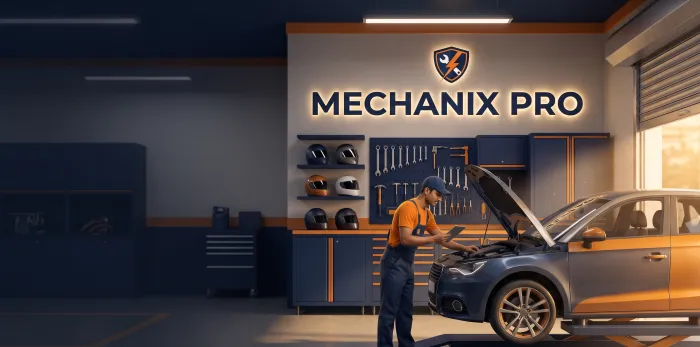
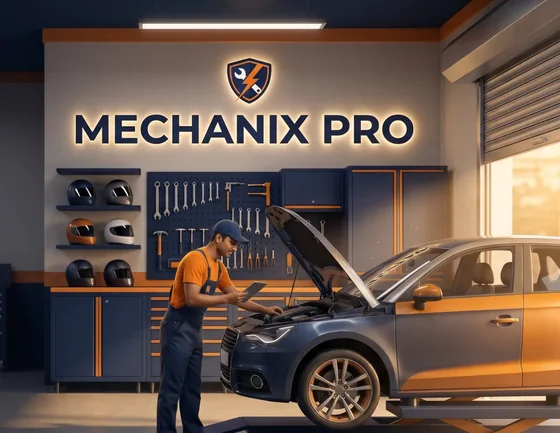
Hero car slide cropped to the photo like the bike slides

diff --git a/index.html b/index.html
@@ -54,7 +54,7 @@
     </div>
     <figure class="hero-media">
       <div class="hs bike-only" role="region" aria-roledescription="carousel" aria-label="Mechanix Pro bike service pictures"><div class="hs-track"><div class="hs-slide is-on" role="group" aria-roledescription="slide" aria-label="1 of 5"><img src="/assets/img/hero/hero-quote-1200.webp" fetchpriority="high" srcset="/assets/img/hero/hero-quote-700.webp 560w, /assets/img/hero/hero-quote-1200.webp 800w, /assets/img/hero/hero-quote-2000.webp 1000w" sizes="(min-width:960px) 72vw, 100vw" width="800" height="792" alt="A customer points at an itemised quote on a Mechanix Pro mechanic's tablet and smiles; nothing starts until she says yes." decoding="async"></div><div class="hs-slide" role="group" aria-roledescription="slide" aria-label="2 of 5"><img data-src="/assets/img/hero/hero-team-1200.webp" data-srcset="/assets/img/hero/hero-team-700.webp 560w, /assets/img/hero/hero-team-1200.webp 800w, /assets/img/hero/hero-team-2000.webp 1000w" sizes="(min-width:960px) 72vw, 100vw" width="800" height="792" alt="The Mechanix Pro team in navy polo shirts with the shield badge, a woman and three men, one holding a tablet, in front of a Mechanix Pro garage and a service van." decoding="async"></div><div class="hs-slide" role="group" aria-roledescription="slide" aria-label="3 of 5"><img data-src="/assets/img/hero/hero-road-1200.webp" data-srcset="/assets/img/hero/hero-road-700.webp 560w, /assets/img/hero/hero-road-1200.webp 800w, /assets/img/hero/hero-road-2000.webp 1000w" sizes="(min-width:960px) 72vw, 100vw" width="800" height="792" alt="A Mechanix Pro mechanic kneels beside a scooter on a Bengaluru street at night with a torch, his navy-and-orange service van behind him." decoding="async"></div><div class="hs-slide" role="group" aria-roledescription="slide" aria-label="4 of 5"><img data-src="/assets/img/hero/hero-delivery-1200.webp" data-srcset="/assets/img/hero/hero-delivery-700.webp 560w, /assets/img/hero/hero-delivery-1200.webp 800w, /assets/img/hero/hero-delivery-2000.webp 1000w" sizes="(min-width:960px) 72vw, 100vw" width="800" height="792" alt="A Mechanix Pro mechanic takes a photo of the finished motorcycle while the customer gives a thumbs up." decoding="async"></div><div class="hs-slide" role="group" aria-roledescription="slide" aria-label="5 of 5"><video class="hm-v" autoplay muted loop playsinline preload="metadata" poster="/assets/img/hero/hero-garage-poster.webp" width="1280" height="572" aria-label="The Mechanix Pro garage: a smiling mechanic with a spanner beside a motorcycle on a service stand."><source src="/assets/video/hero-garage.mp4" type="video/mp4"></video></div></div></div>
-      <div class="hs car-only" role="region" aria-roledescription="carousel" aria-label="Mechanix Pro car service pictures"><div class="hs-track"><div class="hs-slide is-on" role="group" aria-roledescription="slide" aria-label="1 of 2"><img data-src="/assets/img/hero/hero-car-1200.webp" data-srcset="/assets/img/hero/hero-car-700.webp 700w, /assets/img/hero/hero-car-1200.webp 1200w, /assets/img/hero/hero-car-2000.webp 2000w" sizes="(min-width:960px) 72vw, 100vw" width="2752" height="1361" alt="The Mechanix Pro garage: a mechanic checks a car with its bonnet open on a service ramp." decoding="async"></div><div class="hs-slide" role="group" aria-roledescription="slide" aria-label="2 of 2"><img data-src="/assets/img/hero/car-closeup-1200.webp" data-srcset="/assets/img/hero/car-closeup-700.webp 700w, /assets/img/hero/car-closeup-1200.webp 1200w" sizes="(min-width:960px) 72vw, 100vw" width="1200" height="594" alt="A mechanic holds a tablet beside a car on a ramp with its bonnet open in a workshop." decoding="async"></div></div></div>
+      <div class="hs car-only" role="region" aria-roledescription="carousel" aria-label="Mechanix Pro car service pictures"><div class="hs-track"><div class="hs-slide is-on" role="group" aria-roledescription="slide" aria-label="1 of 2"><img data-src="/assets/img/hero/hero-car-1200.webp" data-srcset="/assets/img/hero/hero-car-700.webp 560w, /assets/img/hero/hero-car-1200.webp 800w, /assets/img/hero/hero-car-2000.webp 1280w" sizes="(min-width:960px) 72vw, 100vw" width="800" height="619" alt="The Mechanix Pro garage: a mechanic checks a car with its bonnet open on a service ramp." decoding="async"></div><div class="hs-slide" role="group" aria-roledescription="slide" aria-label="2 of 2"><img data-src="/assets/img/hero/car-closeup-1200.webp" data-srcset="/assets/img/hero/car-closeup-700.webp 700w, /assets/img/hero/car-closeup-1200.webp 1200w" sizes="(min-width:960px) 72vw, 100vw" width="1200" height="594" alt="A mechanic holds a tablet beside a car on a ramp with its bonnet open in a workshop." decoding="async"></div></div></div>
     </figure>
   </div>
   <div class="wrap hero-book">

diff --git a/src/home.html b/src/home.html
@@ -13,7 +13,7 @@
     </div>
     <figure class="hero-media">
       <div class="hs bike-only" role="region" aria-roledescription="carousel" aria-label="Mechanix Pro bike service pictures"><div class="hs-track"><div class="hs-slide is-on" role="group" aria-roledescription="slide" aria-label="1 of 5"><img src="/assets/img/hero/hero-quote-1200.webp" fetchpriority="high" srcset="/assets/img/hero/hero-quote-700.webp 560w, /assets/img/hero/hero-quote-1200.webp 800w, /assets/img/hero/hero-quote-2000.webp 1000w" sizes="(min-width:960px) 72vw, 100vw" width="800" height="792" alt="A customer points at an itemised quote on a Mechanix Pro mechanic's tablet and smiles; nothing starts until she says yes." decoding="async"></div><div class="hs-slide" role="group" aria-roledescription="slide" aria-label="2 of 5"><img data-src="/assets/img/hero/hero-team-1200.webp" data-srcset="/assets/img/hero/hero-team-700.webp 560w, /assets/img/hero/hero-team-1200.webp 800w, /assets/img/hero/hero-team-2000.webp 1000w" sizes="(min-width:960px) 72vw, 100vw" width="800" height="792" alt="The Mechanix Pro team in navy polo shirts with the shield badge, a woman and three men, one holding a tablet, in front of a Mechanix Pro garage and a service van." decoding="async"></div><div class="hs-slide" role="group" aria-roledescription="slide" aria-label="3 of 5"><img data-src="/assets/img/hero/hero-road-1200.webp" data-srcset="/assets/img/hero/hero-road-700.webp 560w, /assets/img/hero/hero-road-1200.webp 800w, /assets/img/hero/hero-road-2000.webp 1000w" sizes="(min-width:960px) 72vw, 100vw" width="800" height="792" alt="A Mechanix Pro mechanic kneels beside a scooter on a Bengaluru street at night with a torch, his navy-and-orange service van behind him." decoding="async"></div><div class="hs-slide" role="group" aria-roledescription="slide" aria-label="4 of 5"><img data-src="/assets/img/hero/hero-delivery-1200.webp" data-srcset="/assets/img/hero/hero-delivery-700.webp 560w, /assets/img/hero/hero-delivery-1200.webp 800w, /assets/img/hero/hero-delivery-2000.webp 1000w" sizes="(min-width:960px) 72vw, 100vw" width="800" height="792" alt="A Mechanix Pro mechanic takes a photo of the finished motorcycle while the customer gives a thumbs up." decoding="async"></div><div class="hs-slide" role="group" aria-roledescription="slide" aria-label="5 of 5"><video class="hm-v" autoplay muted loop playsinline preload="metadata" poster="/assets/img/hero/hero-garage-poster.webp" width="1280" height="572" aria-label="The Mechanix Pro garage: a smiling mechanic with a spanner beside a motorcycle on a service stand."><source src="/assets/video/hero-garage.mp4" type="video/mp4"></video></div></div></div>
-      <div class="hs car-only" role="region" aria-roledescription="carousel" aria-label="Mechanix Pro car service pictures"><div class="hs-track"><div class="hs-slide is-on" role="group" aria-roledescription="slide" aria-label="1 of 2"><img data-src="/assets/img/hero/hero-car-1200.webp" data-srcset="/assets/img/hero/hero-car-700.webp 700w, /assets/img/hero/hero-car-1200.webp 1200w, /assets/img/hero/hero-car-2000.webp 2000w" sizes="(min-width:960px) 72vw, 100vw" width="2752" height="1361" alt="The Mechanix Pro garage: a mechanic checks a car with its bonnet open on a service ramp." decoding="async"></div><div class="hs-slide" role="group" aria-roledescription="slide" aria-label="2 of 2"><img data-src="/assets/img/hero/car-closeup-1200.webp" data-srcset="/assets/img/hero/car-closeup-700.webp 700w, /assets/img/hero/car-closeup-1200.webp 1200w" sizes="(min-width:960px) 72vw, 100vw" width="1200" height="594" alt="A mechanic holds a tablet beside a car on a ramp with its bonnet open in a workshop." decoding="async"></div></div></div>
+      <div class="hs car-only" role="region" aria-roledescription="carousel" aria-label="Mechanix Pro car service pictures"><div class="hs-track"><div class="hs-slide is-on" role="group" aria-roledescription="slide" aria-label="1 of 2"><img data-src="/assets/img/hero/hero-car-1200.webp" data-srcset="/assets/img/hero/hero-car-700.webp 560w, /assets/img/hero/hero-car-1200.webp 800w, /assets/img/hero/hero-car-2000.webp 1280w" sizes="(min-width:960px) 72vw, 100vw" width="800" height="619" alt="The Mechanix Pro garage: a mechanic checks a car with its bonnet open on a service ramp." decoding="async"></div><div class="hs-slide" role="group" aria-roledescription="slide" aria-label="2 of 2"><img data-src="/assets/img/hero/car-closeup-1200.webp" data-srcset="/assets/img/hero/car-closeup-700.webp 700w, /assets/img/hero/car-closeup-1200.webp 1200w" sizes="(min-width:960px) 72vw, 100vw" width="1200" height="594" alt="A mechanic holds a tablet beside a car on a ramp with its bonnet open in a workshop." decoding="async"></div></div></div>
     </figure>
   </div>
   <div class="wrap hero-book">
